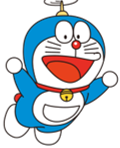
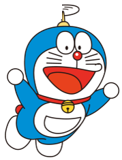
2. 도라에몽의 날개 방향 바꿈 3. 누르면 올라갔다가 내려가는 모션 4. 끝까지 떨어지지 않고 바닥에 멈췄다가 누르면 다시 올라오는 도라에몽

diff --git a/core/src/com/robpercival/doraemonrun/DoraemonRun.java b/core/src/com/robpercival/doraemonrun/DoraemonRun.java
@@ -9,25 +9,52 @@ import com.badlogic.gdx.graphics.g2d.SpriteBatch;
 public class DoraemonRun extends ApplicationAdapter {
 	SpriteBatch batch;
 	Texture background;
-	Texture doraemon;
-
-	
+	Texture[] doraemons;
+	int flapState = 0;
+	float doraemonY = 0;
+	float velocity = 0;
+	int gameState = 0;
+	float gravity =2;
 	@Override
-	public void create () {
+	public void create() {
 		batch = new SpriteBatch();
 		background = new Texture("bg.png");
-		doraemon = new Texture("doraemon.png");
-
+		doraemons = new Texture[2];
+		doraemons[0] = new Texture("doraemon.png");
+		doraemons[1] = new Texture("doraemon2.png");
+		doraemonY = Gdx.graphics.getHeight() / 2 - doraemons[flapState].getHeight() / 2;
 	}
 
 	@Override
-	public void render () {
+	public void render() {
+
+		if (gameState != 0) {
+
+			if (Gdx.input.justTouched()) {
+				velocity = -30;
+
+			}
+			if(doraemonY > 0 || velocity < 0) {
+
+				velocity = velocity + gravity;
+				doraemonY -= velocity;
+			}
+		}else{
+			if (Gdx.input.justTouched()) {
+				gameState = 1;
+			}
+		}
+		if (flapState == 0) {
+			flapState = 1;
+		} else {
+			flapState = 0;
+		}
 		batch.begin();
-		batch.draw(background,0,0,Gdx.graphics.getWidth(), Gdx.graphics.getHeight());
-		batch.draw(doraemon,Gdx.graphics.getWidth() / 2, Gdx.graphics.getHeight()/2);
+		batch.draw(background, 0, 0, Gdx.graphics.getWidth(), Gdx.graphics.getHeight());
+		batch.draw(doraemons[flapState], Gdx.graphics.getWidth() / 2 - doraemons[flapState].getWidth() / 2, doraemonY);
 		batch.end();
-}
-	
+	}
+
 	@Override
 	public void dispose () {
 		batch.dispose();
